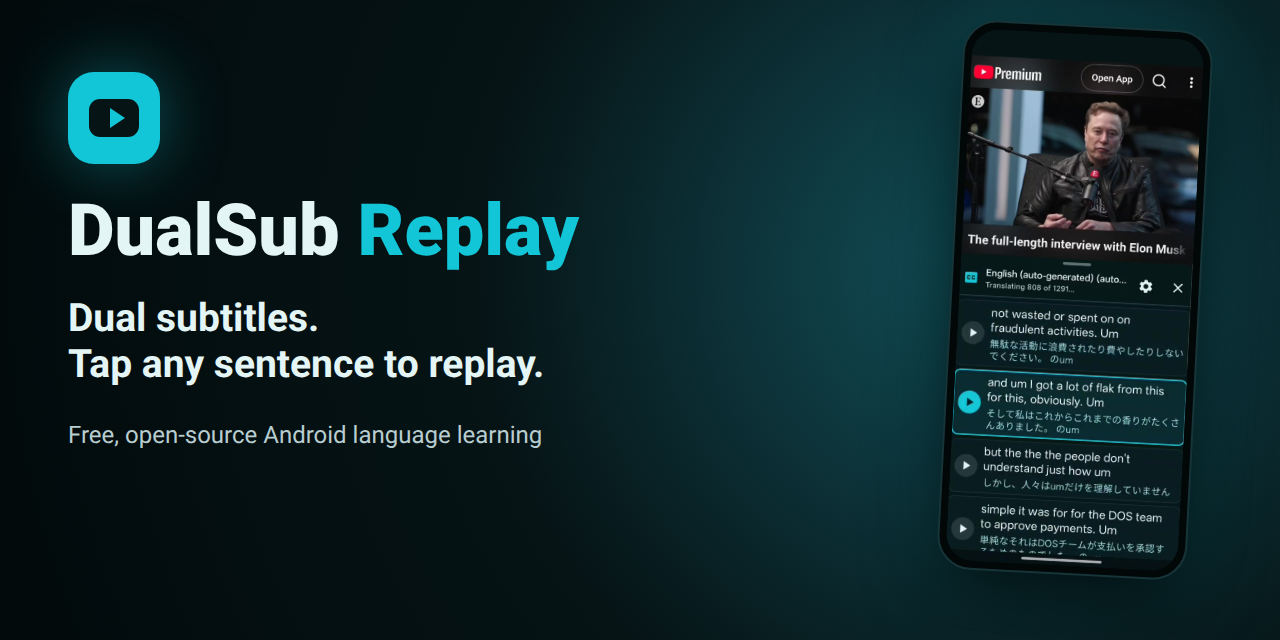
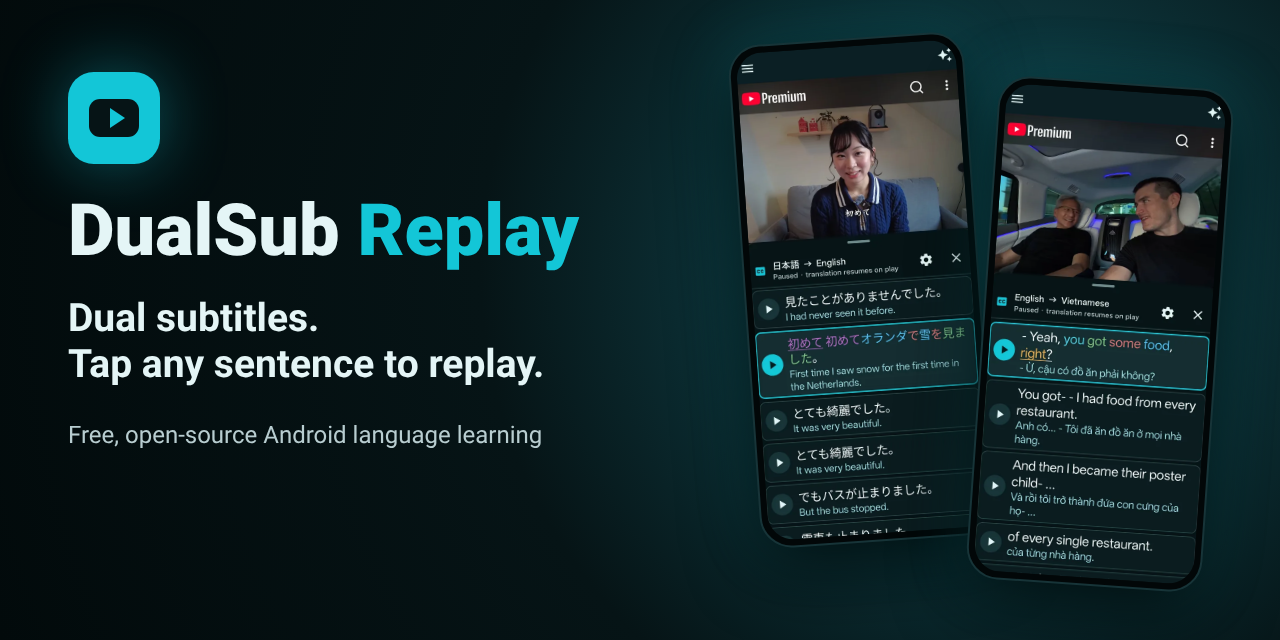
Rebuild the social preview card with the new screenshots
The SocialCard composition now shows the Japanese -> English and
English -> Vietnamese screenshots as two tilted phones instead of the
old poster still. Rendered with `remotion still` (1280x640, 868 KiB).

Claude-Session: https://claude.ai/code/session_01XiWeMaTJKA2SDCcSBaAdup

diff --git a/tools/promo-video/src/PromoVideo.tsx b/tools/promo-video/src/PromoVideo.tsx
@@ -211,8 +211,15 @@ export const SocialCard: React.FC<PromoProps> = () => (
       <div style={{fontSize: 39, lineHeight: 1.18, fontWeight: 700, marginTop: 28}}>Dual subtitles.<br />Tap any sentence to replay.</div>
       <div style={{fontSize: 24, color: colors.muted, marginTop: 34}}>Free, open-source Android language learning</div>
     </div>
-    <div style={{position: 'absolute', right: 80, top: 25, width: 250, height: 550, borderRadius: 34, padding: 7, background: '#020708', border: `2px solid ${colors.surfaceVariant}`, boxShadow: '0 20px 70px #000D, 0 0 60px #13C6D744', overflow: 'hidden', transform: 'rotate(3deg)'}}>
-      <Img src={staticFile('source/poster-source.jpg')} style={{width: '100%', height: '100%', objectFit: 'cover', borderRadius: 27}} />
-    </div>
+    <SocialPhone src="source/social-japanese-english.webp" right={300} top={38} rotate={-4} />
+    <SocialPhone src="source/social-english-vietnamese.webp" right={62} top={82} rotate={4} />
   </AbsoluteFill>
+);
+
+// The owner's 2026-10-28 screenshots (Japanese -> English, English -> Vietnamese), the same
+// pair the website hero shows.
+const SocialPhone: React.FC<{src: string; right: number; top: number; rotate: number}> = ({src, right, top, rotate}) => (
+  <div style={{position: 'absolute', right, top, width: 236, height: 504, borderRadius: 32, padding: 6, background: '#020708', border: `2px solid ${colors.surfaceVariant}`, boxShadow: '0 20px 70px #000D, 0 0 60px #13C6D744', overflow: 'hidden', transform: `rotate(${rotate}deg)`}}>
+    <Img src={staticFile(src)} style={{width: '100%', height: '100%', objectFit: 'cover', objectPosition: 'top', borderRadius: 26}} />
+  </div>
 );
